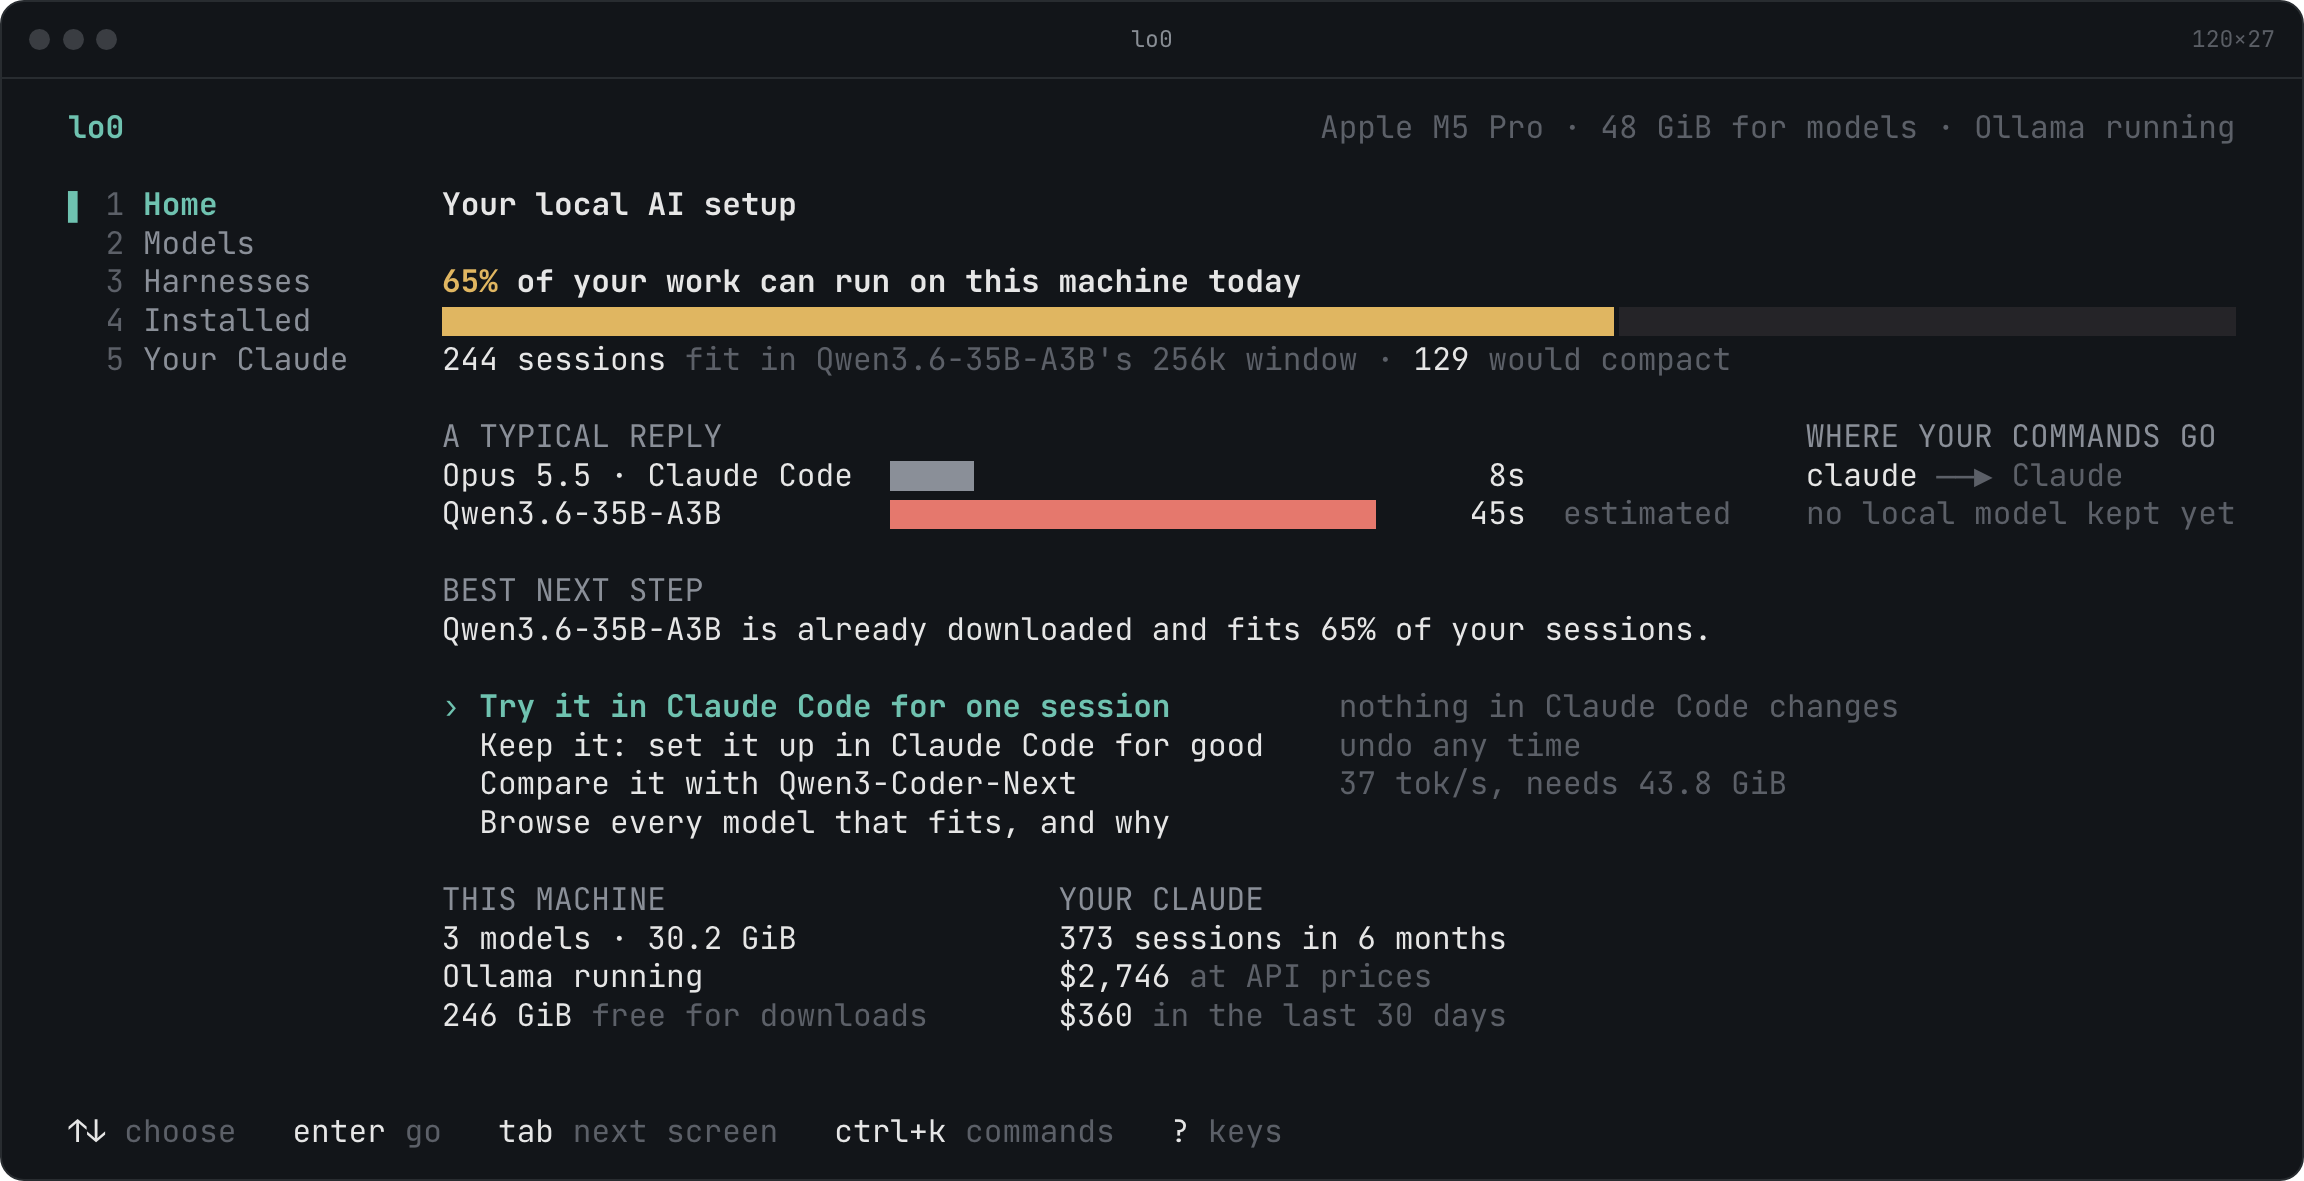
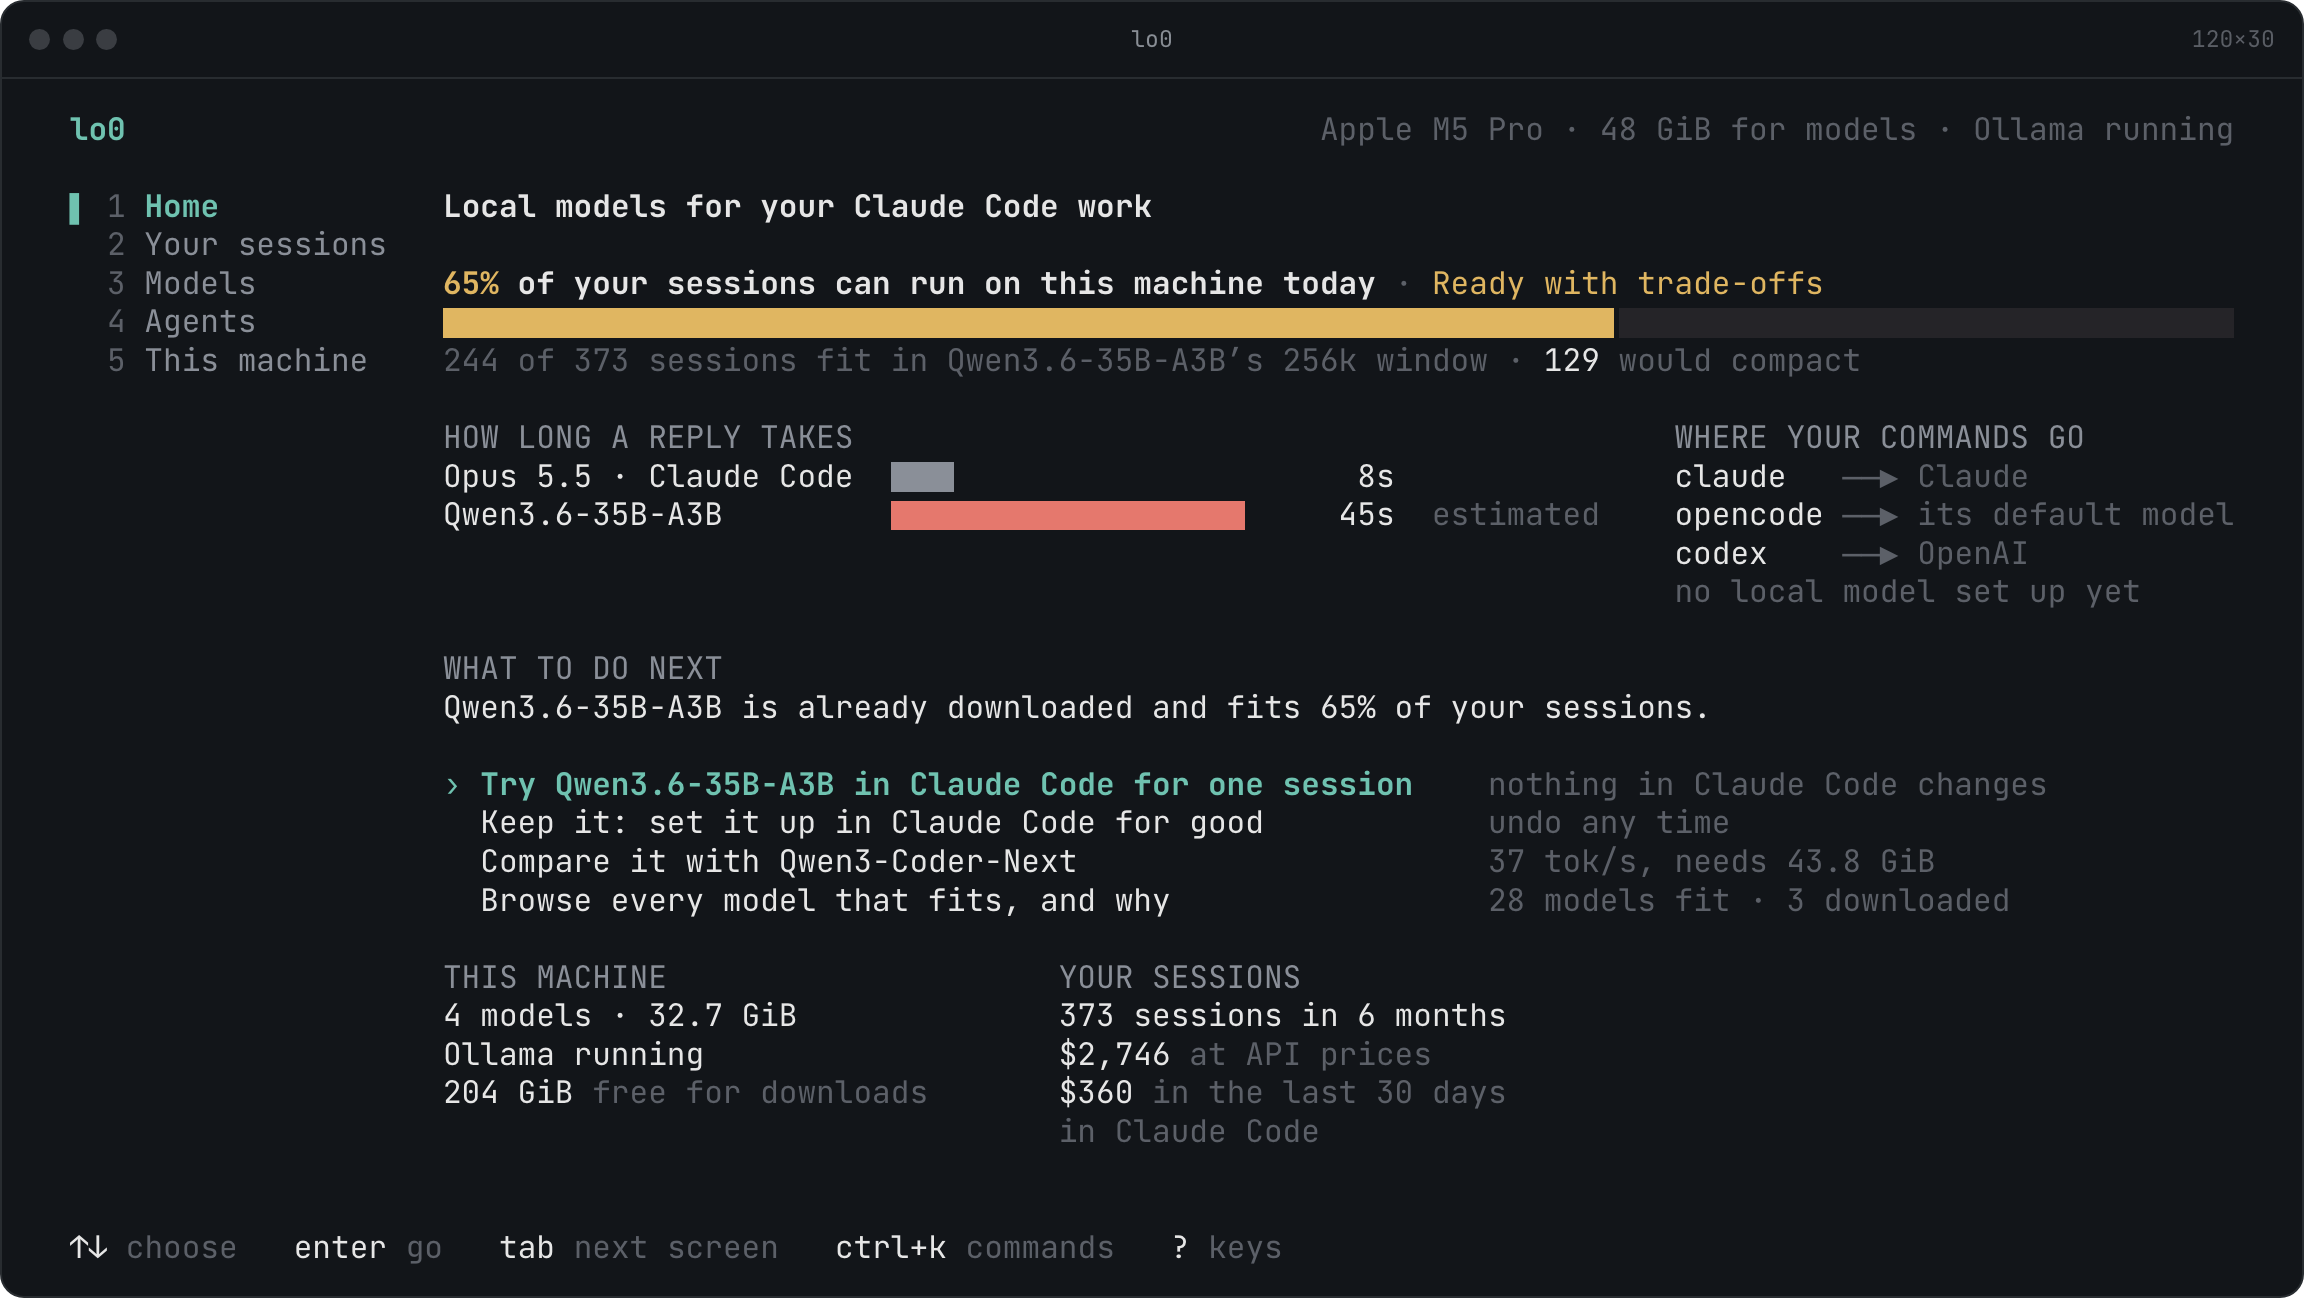
Recapture the README's Home screenshot from the current UI

diff --git a/README.md b/README.md
@@ -17,7 +17,7 @@
 </p>
 
 <p align="center">
-  <img src="docs/assets/home.png" alt="lo0's Home screen: 65% of the work can run on this machine, with a typical reply estimated at 45 seconds against 8 with Opus 5.5" width="760">
+  <img src="docs/assets/home.png" alt="lo0's Home screen: 65% of your sessions can run on this machine, ready with trade-offs, with a typical reply estimated at 45 seconds against 8 with Opus 5.5" width="760">
 </p>
 
 lo0 measures how much context your sessions reach, which tools and MCP servers they use, and how much model your hardware can hold. From that it works out which local models fit, what you would give up and how fast they would run. It can then set one up in Ollama, LM Studio or llama.cpp and start Claude Code, OpenCode or Codex on it.
